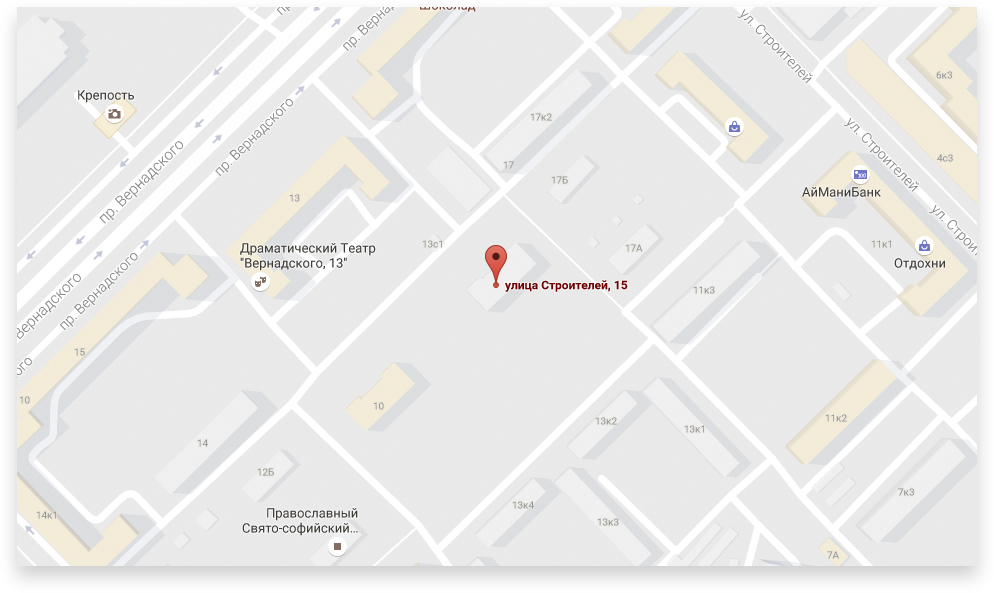
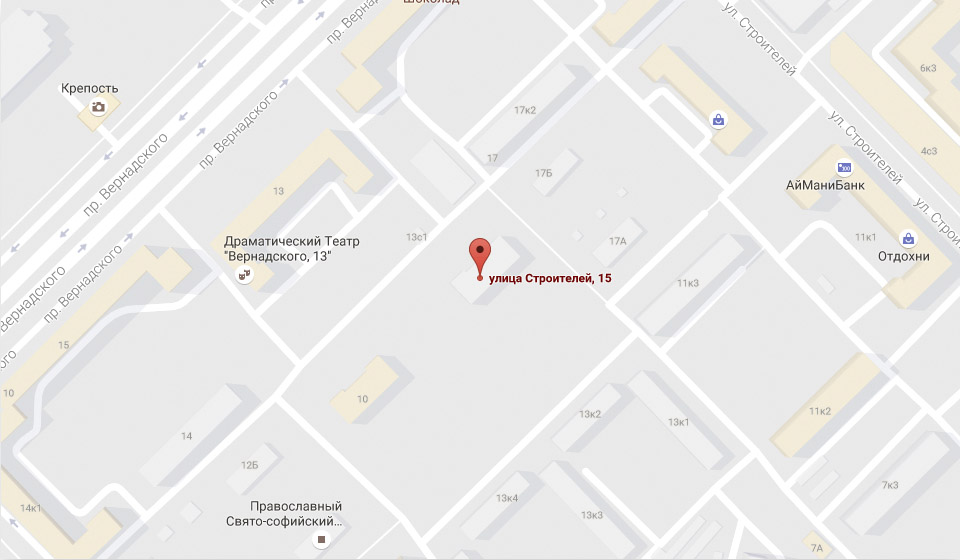
Добавляем интерактивную карту

diff --git a/index.html b/index.html
@@ -271,7 +271,9 @@
           <h2>Контакты</h2>
           <p>Вы можете забрать товар сами, заехав в наш офис. Заодно, вы сможете
             проверить работоспособность покупки. Всякое бывает.</p>
-          <img src="img/map.jpg" width="560" height="222" alt="г. Москва, ул. Строителей, 15">
+          <a href="" class="map-link">
+            <img src="img/map.jpg" width="560" height="222" alt="г. Москва, ул. Строителей, 15">
+          </a>
           <a class="button js-feedback index-columns-button" href="">Напишите нам</a>
         </section>
       </div>
@@ -341,7 +343,8 @@
 
     <section class="modal modal-map">
       <h2 class="visually-hidden">Как нас найти</h2>
-      <img src="img/map-big.jpg" width="994" height="593" alt="г. Москва, ул. Строителей, 15">
+      <!-- <img src="img/map-big.jpg" width="960" height="560" alt="г. Москва, ул. Строителей, 15"> -->
+      <iframe src="https://www.google.com/maps/embed?pb=!1m18!1m12!1m3!1d2249.123506515542!2d37.528244707585!3d55.68684046855837!2m3!1f0!2f0!3f0!3m2!1i1024!2i768!4f13.1!3m3!1m2!1s0x46b54cf65f5c8955%3A0x694710ccd55501e!2z0YPQuy4g0KHRgtGA0L7QuNGC0LXQu9C10LksIDE1LCDQnNC-0YHQutCy0LAsIDExOTMxMQ!5e0!3m2!1sru!2sru!4v1602672824822!5m2!1sru!2sru" width="960" height="560" frameborder="0" style="border:0;" allowfullscreen="" aria-hidden="false" tabindex="0"></iframe>
       <button class="modal-close" type="button">
         <span class="visually-hidden">Закрыть</span>
       </button>

diff --git a/css/style.css b/css/style.css
@@ -1068,7 +1068,8 @@ img {
   line-height: 28px;
 }
 
-.contacts img {
+.map-link {
+  display: block;
   margin-bottom: 68px;
 }
 
@@ -1151,7 +1152,6 @@ img {
 .socials-item:not(:last-child) {
   margin-right: 20px;
 }
-
 
 .socials-item-link {
   position: relative;
@@ -1394,6 +1394,9 @@ img {
   width: 100%;
   min-height: 167px;
   margin-bottom: 54px;
+  padding: 15px 20px;
+  font-size: 14px;
+  line-height: 19px;
   resize: none;
 }
 
@@ -1403,6 +1406,15 @@ img {
   min-width: 200px;
 }
 
+.modal-map {
+  width: 960px;
+  height: 560px;
+  background-image: url('../img/map-big.jpg');
+  background-position: center;
+  background-repeat: no-repeat;
+  background-size: cover;
+  box-shadow: 0px 10px 16px rgba(0, 0, 0, 0.15);
+}
 
 /* CATALOG */
 
@@ -1765,7 +1777,6 @@ img {
   color: var(--basic-black-light);
 }
 
-
 .catalog-item img {
   order: -1;
   margin-bottom: 30px;
@@ -1957,7 +1968,6 @@ img {
 .pagination-item:not(:nth-child(1)):not(:nth-child(4)):not(:nth-child(5)) {
   margin-right: 30px;
 }
-
 
 .pagination-item-prev {
   margin-right: auto;

diff --git a/js/scripts.js b/js/scripts.js
@@ -9,7 +9,8 @@ const feedbackEmail = feedbackPopup.querySelector("#feedback-form-email");
 const feedbackMessage = feedbackPopup.querySelector("#feedback-form-text");
 
 const mapPopup = document.querySelector('.modal-map');
-
+const mapLink = document.querySelector('.map-link');
+const mapPopupClose = mapPopup.querySelector('.modal-close');
 
 let isStorageSupport = true;
 let storage = "";
@@ -83,4 +84,22 @@ feedbackLink.addEventListener("click", function (evt) {
 
 window.addEventListener("keydown", function (evt) {
   pressEscKey(evt);
+});
+
+mapLink.addEventListener('click', function (evt) {
+  evt.preventDefault();
+  openPopup(mapPopup);
+  window.addEventListener("keydown", function (evt) {
+    if (evt.key === 'Escape') {
+      if (mapPopup.classList.contains("modal-show")) {
+        evt.preventDefault();
+        mapPopup.classList.remove("modal-show");
+      }
+    }
+  });
+});
+
+mapPopupClose.addEventListener('click', function (evt) {
+  evt.preventDefault();
+  closePopup(mapPopup);
 });
